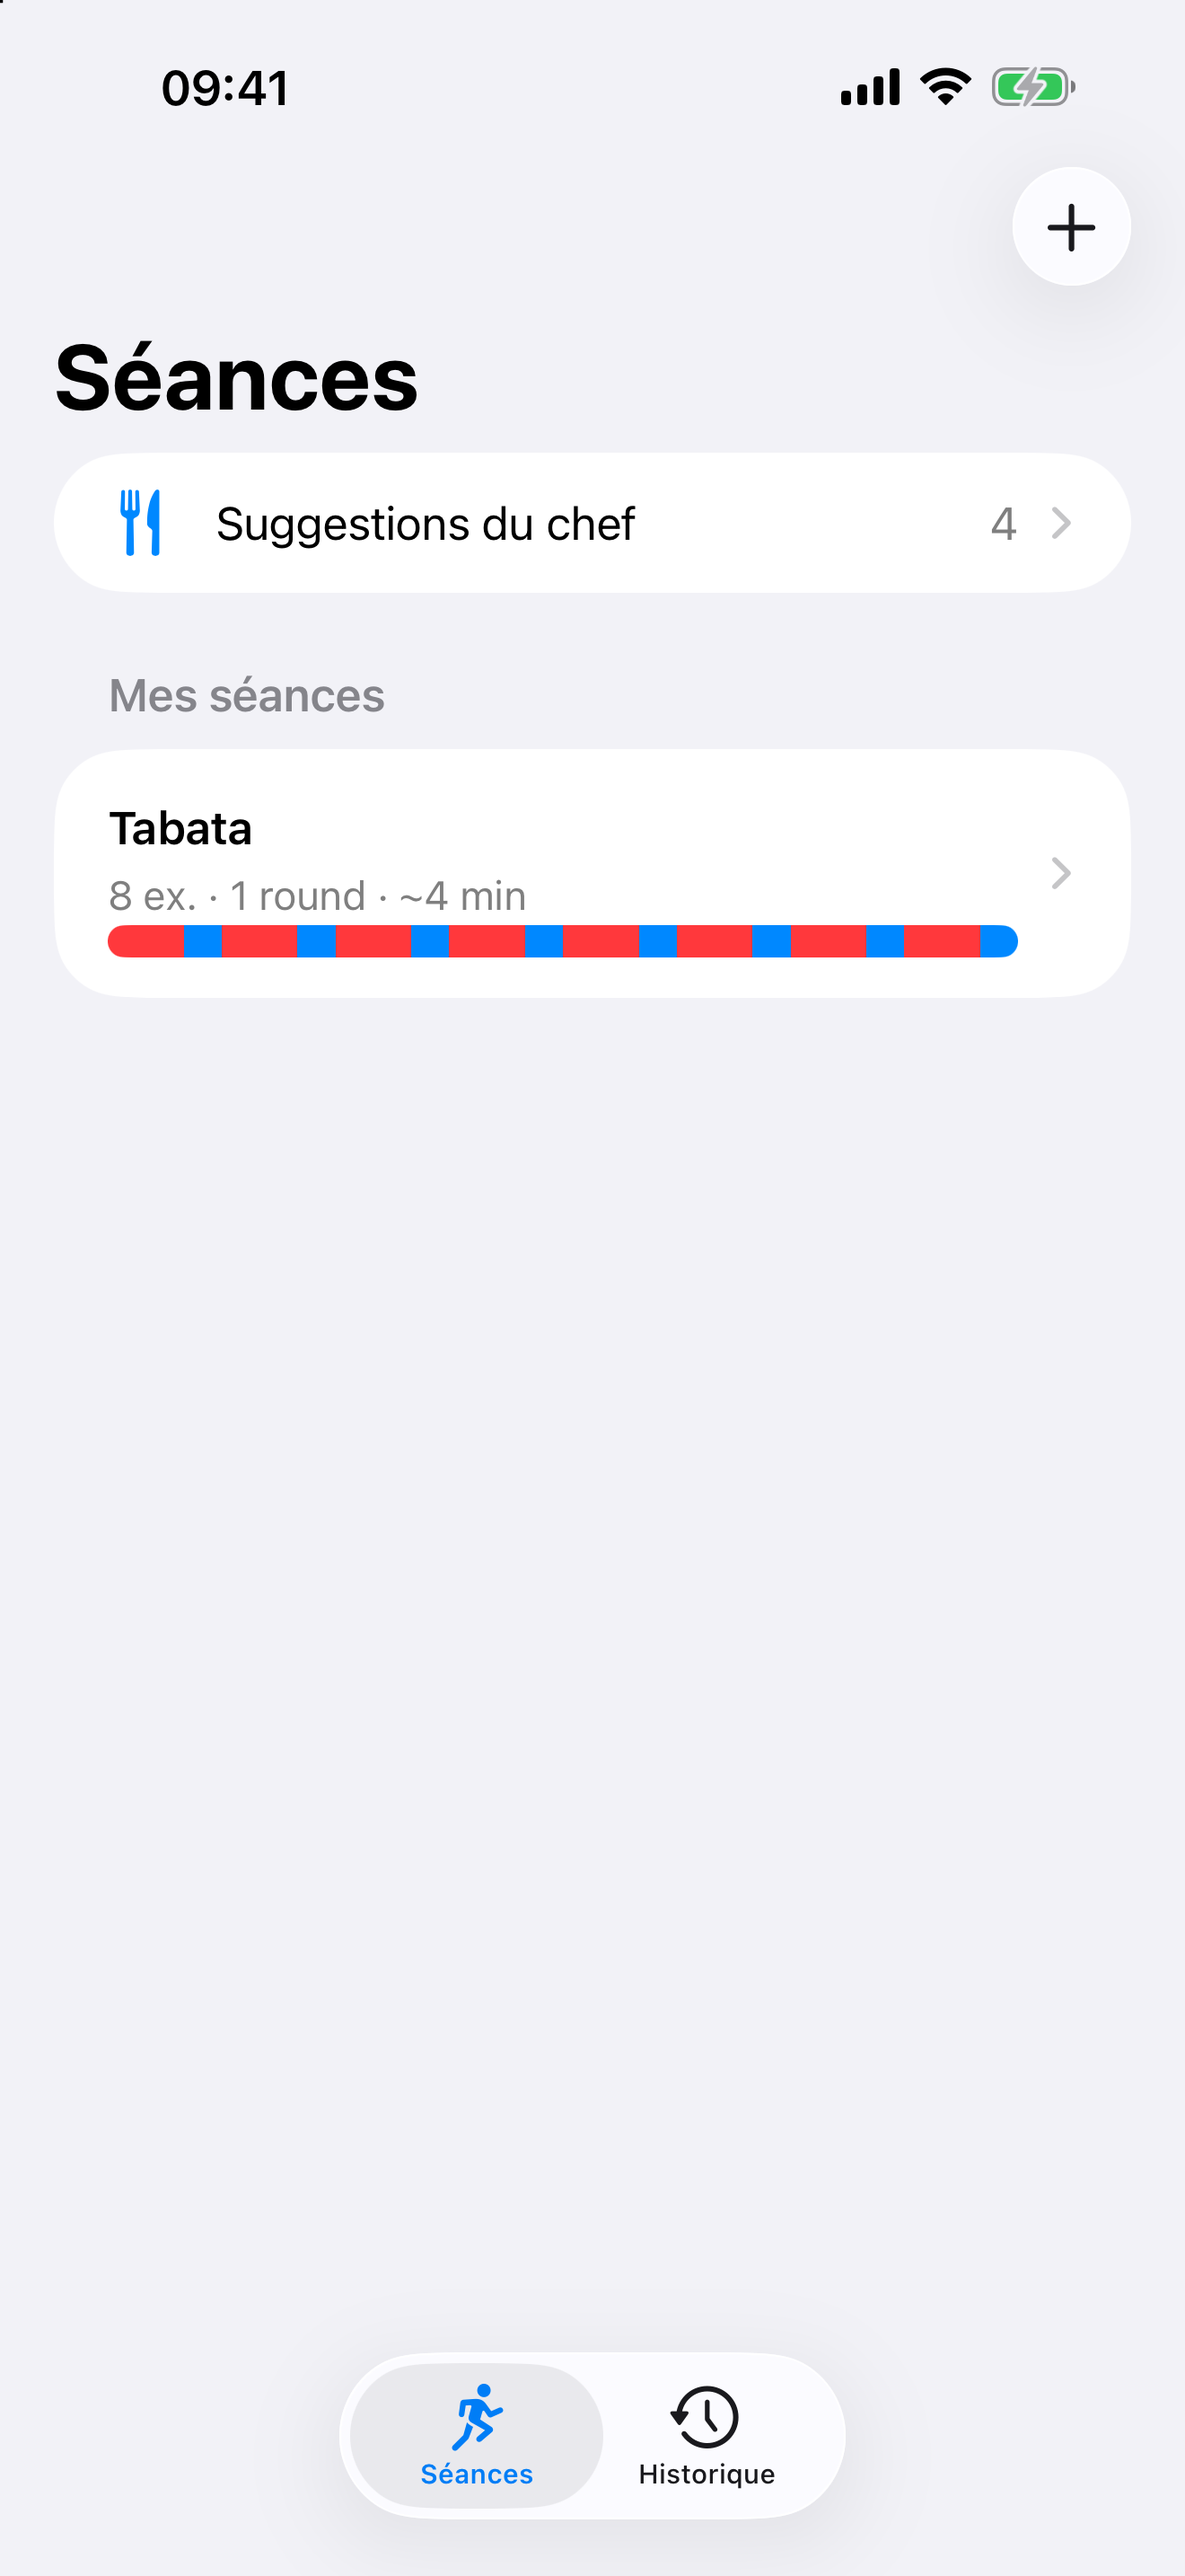
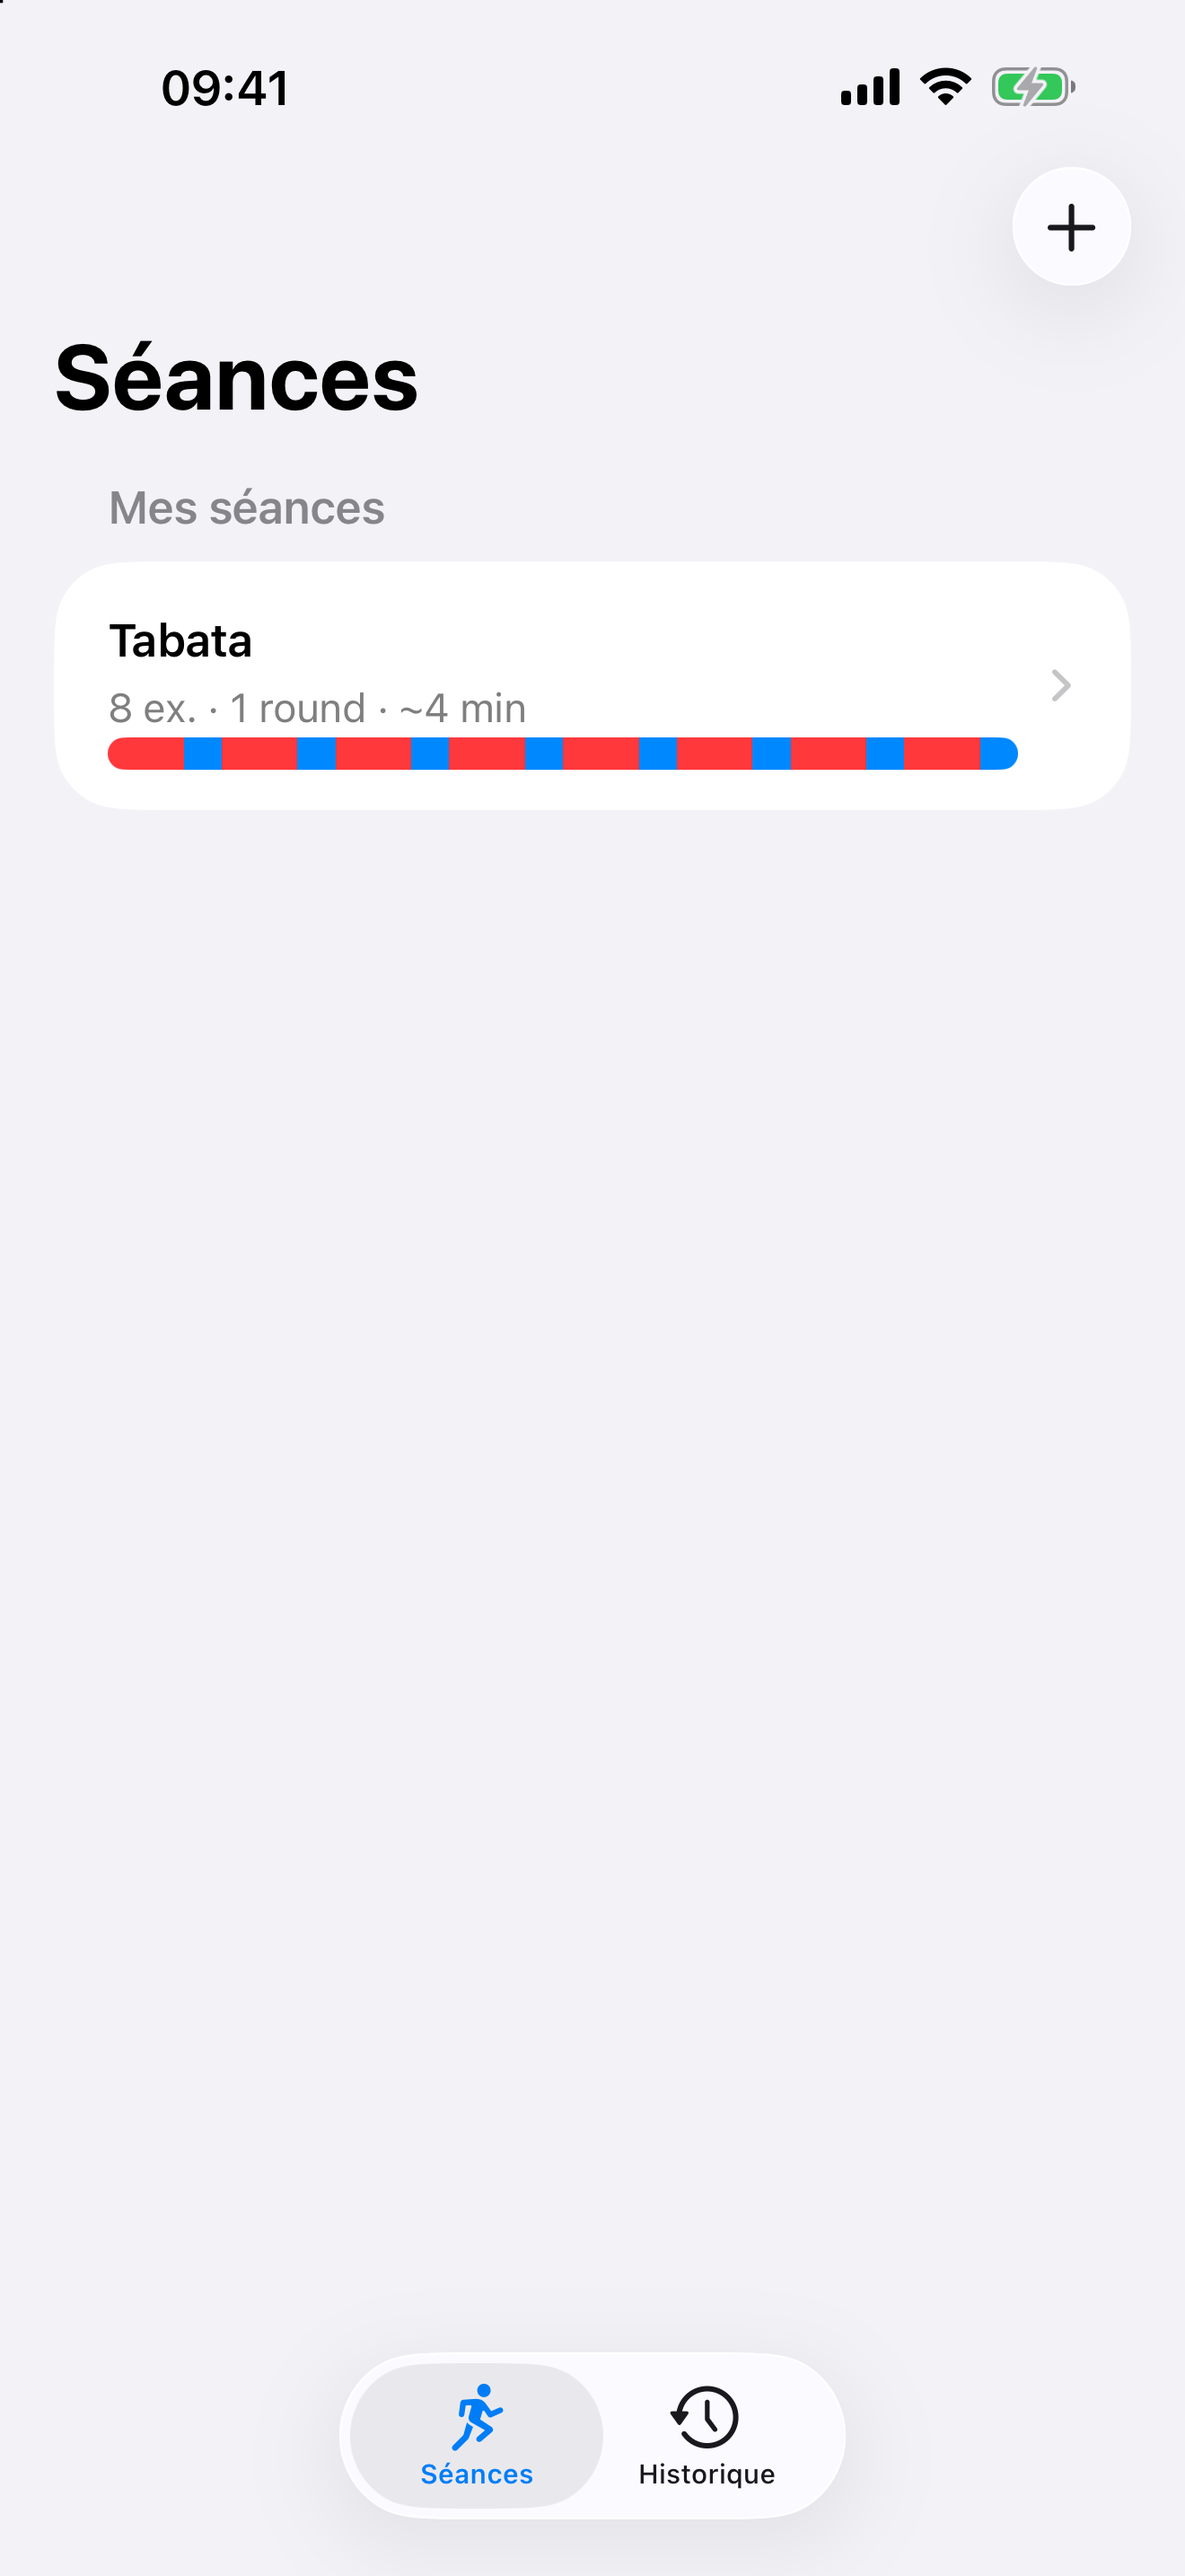
Prépa release 1.7 : captures, notes de version, fiche reviewer
- Captures fr-FR régénérées : plus de ligne Suggestions sur l'écran
  Séances, graphique de l'historique enfin rempli.
- release_notes.txt (fr-FR) réécrit pour 1.7.
- review_information/notes.txt : WHAT'S NEW IN 1.7, HOW TO TEST réécrit
  (onboarding au premier lancement, suggestions dans le menu +), glossaire
  Suivant / Passer / C'est parti, paragraphe de vérification. 3859
  caractères sur 4000.
- CLAUDE.md : état courant 1.6, 1.6.1, 1.7 ; note Onboarding ; HOW TO TEST
  à réécrire quand le parcours change.

diff --git a/CLAUDE.md b/CLAUDE.md
@@ -32,7 +32,11 @@ Réimplémentation *from scratch* inspirée fonctionnellement de "Interval Timer
 - `AudioCueManager` (`@MainActor`) — session audio, vocabulaire sonore et ducking.
 - `ExerciseCatalog` — suggestions de noms d'exercices. Constante (catalogue intégré) +
   noms personnels **recalculés à la volée** depuis les séances : aucune entité SwiftData.
+- `WorkoutSuggestions` — les « Suggestions du chef » : 5 séances toutes prêtes, constante
+  non persistée. Proposées dans le menu du bouton `+` de `WorkoutListView` (v1.7) ; une
+  suggestion ajoutée devient une séance ordinaire et disparaît du menu.
 - Vues : `WorkoutListView` → `WorkoutEditorView` → `RunView`, + `HistoryView`.
+  `OnboardingView` s'intercale à la racine au premier lancement (cf. « Onboarding »).
 
 ## Modèle de données
 Modèle **plat** (pas de liste de segments éditable) : une séance est six nombres.
@@ -180,7 +184,7 @@ métadonnées et des captures ; App Store Connect n'est plus saisi à la main.
 
 | Lane | Fait quoi |
 |---|---|
-| `fastlane screenshots` | capture les 5 écrans sur simulateur → `fastlane/screenshots/fr-FR/`, recopie vers `en-US/` |
+| `fastlane screenshots` | capture les 5 écrans sur simulateur → `fastlane/screenshots/fr-FR/`, puis en recopie 4, réduites, dans `Assets.xcassets` pour l'onboarding |
 | `fastlane pull` | rapatrie les métadonnées **publiées** depuis ASC — **écrase** `fastlane/metadata/` |
 | `fastlane bump` | `CURRENT_PROJECT_VERSION` = dernier build sur ASC + 1 |
 | `fastlane build` | archive Release + export `.ipa` signé app-store dans `build/` |
@@ -212,6 +216,10 @@ pas un champ vide — ça republie silencieusement le texte de la version d'avan
    Sans gravité (rien de faux n'y était, et la section audio restait exacte), mais le
    reviewer a lu la version précédente. `deliver` repousse ce fichier à **chaque**
    release : ce qui est dans le repo part chez Apple, à jour ou non.
+   Exception à « stable » : le mode d'emploi (`HOW TO TEST`) décrit le parcours réel. Dès
+   qu'une version change ce parcours, il devient faux s'il n'est pas réécrit — c'est
+   arrivé en 1.6 (seed retiré) et en 1.7 (onboarding, suggestions passées dans le `+`).
+   Plafond Apple : **4000 caractères** pour tout le fichier.
 
 - **Authentification** : clé API App Store Connect (`.p8`), jamais l'Apple ID. Les trois
   valeurs vivent dans `fastlane/.env`, git-ignoré — voir `fastlane/.env.example`. Ne
@@ -314,6 +322,39 @@ de la version marketing et la rédaction des notes, le test sur device, et la re
       Spotify actif. Soumise le 2026-09-02, captures non renvoyées
       (`release skip_screenshots:true`) : ASC recopie celles de la version
       précédente, et ne rien envoyer supprime la course qui les avait dupliquées.
+- [x] v1.6 (build 10) — les deux séances auto-insérées au premier lancement sont
+      remplacées par un dossier « Suggestions du chef » (5 séances, ajout d'un tap).
+      Nettoyage ponctuel des anciennes séances par défaut, seulement si tous leurs champs
+      sont restés identiques (`WorkoutSuggestions.isLegacySeed`, clé
+      `legacySeedCleanupDone`).
+- [x] v1.6.1 (build 11) — l'exercice suivant s'affiche dans un badge aussi grand que
+      l'exercice en cours. En vente depuis (vérifié par `fastlane status` le 2026-10-09).
+- [ ] v1.7 — onboarding en 5 pages illustrées de vraies captures (montré aussi aux
+      utilisateurs existants), suggestions du chef déplacées dans le menu du bouton `+`.
+      Au passage : le graphique de la capture `05-historique.png`, vide en ligne depuis
+      la 1.6, est rempli (historique de démo réinitialisé sous `-screenshotHistory`).
+      Vérifié sur simulateur, y compris en mise à jour depuis la 1.6.1. **Reste** :
+      `beta` → test sur iPhone réel → `verify` → `release`.
+
+> **Onboarding (v1.7)** : `OnboardingView`, 5 pages en `TabView(.page)`.
+> - **Déclenchement** : `@AppStorage("onboardingVersionSeen") < OnboardingView.currentVersion`,
+>   évalué dans `HIIT974App`. Les installations antérieures n'ont pas la clé, elle vaut
+>   donc 0 : elles voient l'onboarding comme les nouvelles, sans code dédié. Monter
+>   `currentVersion` le remontre à tout le monde.
+> - **Bascule à la racine** du `WindowGroup` (if/else + `.animation(value:)`), pas un
+>   `fullScreenCover` : pas d'animation de montée au lancement, et `WorkoutListView` n'est
+>   pas monté dessous (son `onAppear`, donc le nettoyage legacy, attend la fin).
+> - **Captures** : les imagesets `onboarding-run/-list/-editor/-history` sont écrits par
+>   la lane `screenshots` (`ONBOARDING_SCREENSHOTS` dans le `Fastfile`). Ne pas les
+>   retoucher à la main. Les repères pulsants sont des `CGRect` **normalisés**, mesurés
+>   sur les PNG 1320×2868 : si la mise en page d'un de ces écrans bouge, les recaler dans
+>   `OnboardingView.pages`, sinon l'anneau entoure le vide.
+> - **DEBUG** : tout argument `-screenshot*` désactive l'onboarding (le script de captures
+>   part d'un simulateur vierge, il recouvrirait les 5 écrans) ; `-showOnboarding` efface
+>   la clé au lancement ; `-onboardingPage N` ouvre la page N.
+> - Contraste : pas de verre sur les boutons. Sur ces fonds vifs, il tourne au pastel et
+>   le blanc n'y est plus lisible. Le bouton principal est blanc plein, avec la couleur
+>   de la page assombrie de 40 % (`mix(with: .black, by: 0.4)`).
 
 > **Note API** : `.textInputSuggestions` (autocomplétion sous un `TextField`) est
 > `@available(iOS, unavailable)` — macOS 15 uniquement. Le menu de suggestions est donc
